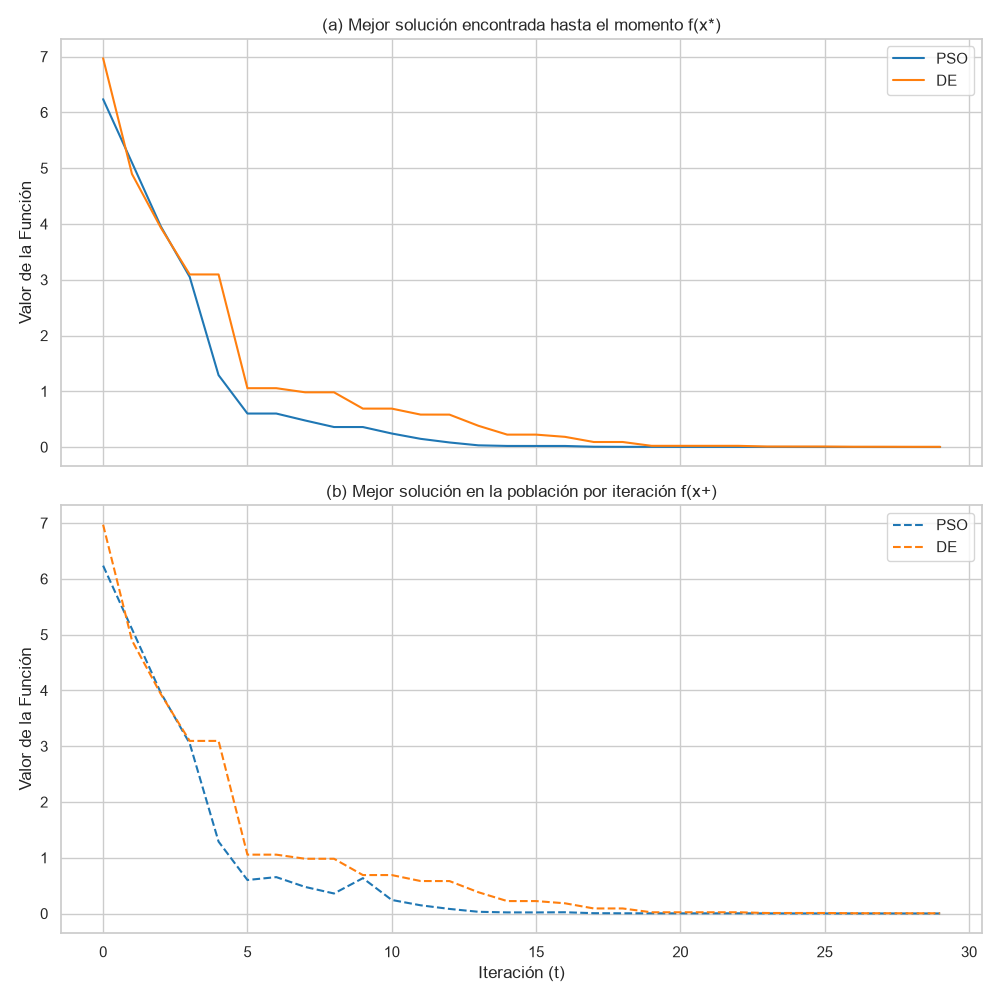
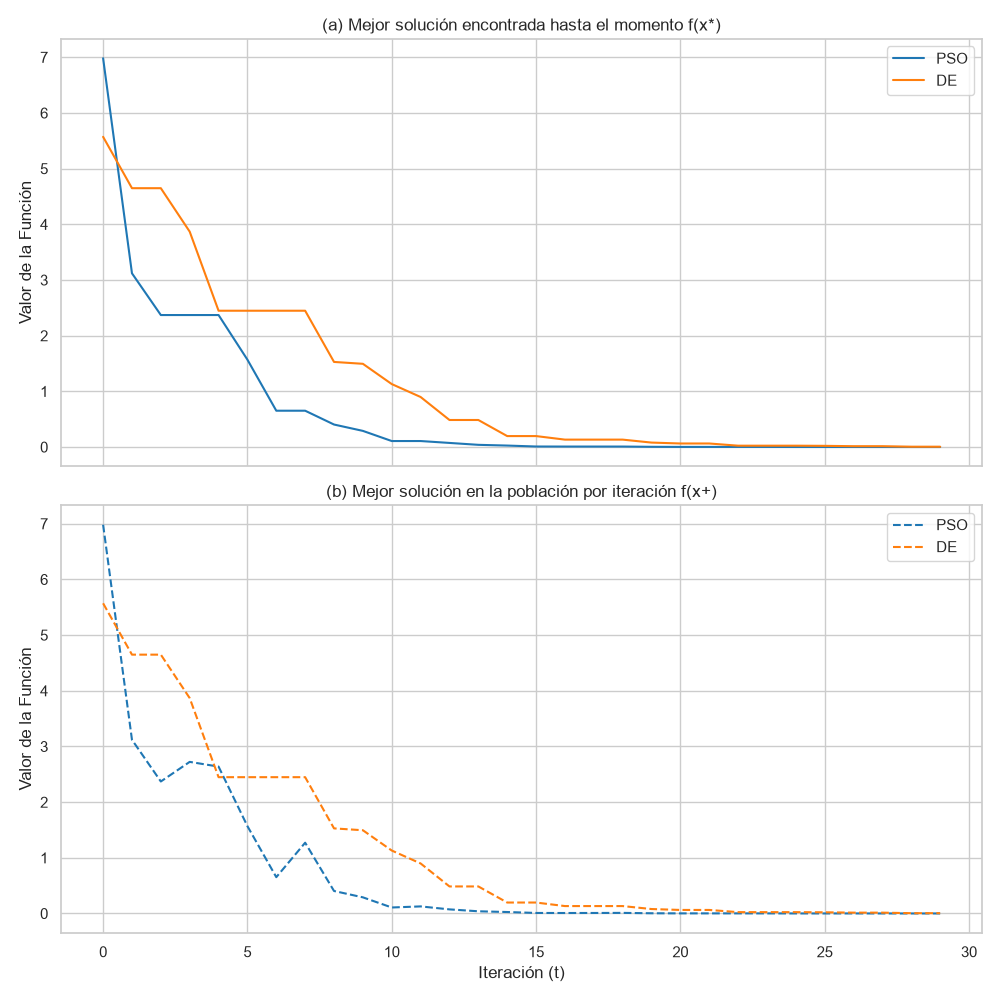
feat: generate both boxplot_graphics, separated and grouped by dimensions.

diff --git a/utils/plotter.py b/utils/plotter.py
@@ -23,14 +23,12 @@ class Plotter:
         """Genera las gráficas separadas: (a) histórico y (b) iteración."""
         fig, (ax1, ax2) = plt.subplots(2, 1, figsize=(10, 10), sharex=True)
         
-        # Gráfica (a): Mejor solución histórica f(x*)
         ax1.plot(pso_data["history"]["best_historical_fitness"], label="PSO", color="#1f77b4", linestyle="-")
         ax1.plot(de_data["history"]["best_historical_fitness"], label="DE", color="#ff7f0e", linestyle="-")
         ax1.set_title("(a) Mejor solución encontrada hasta el momento f(x*)")
         ax1.set_ylabel("Valor de la Función")
         ax1.legend()
         
-        # Gráfica (b): Mejor solución en la población por iteración f(x+)
         ax2.plot(pso_data["history"]["best_iter_fitness"], label="PSO", color="#1f77b4", linestyle="--")
         ax2.plot(de_data["history"]["best_iter_fitness"], label="DE", color="#ff7f0e", linestyle="--")
         ax2.set_title("(b) Mejor solución en la población por iteración f(x+)")
@@ -56,12 +54,11 @@ class Plotter:
         plt.savefig(os.path.join(self.plots_dir, "grafica_d_radio_poblacional.png"))
         plt.close()
 
-    def plot_boxplots(self, data: dict, algo_name: str):
-        """Genera la gráfica (c) de caja y bigotes agrupando 3 dimensiones por iteración."""
+    def plot_boxplots_grouped(self, data: dict, algo_name: str):
+        """Genera la gráfica (c) agrupando 3 dimensiones por iteración en el mismo eje X."""
         positions = np.array(data["history"]["population_positions"])
         iters, pop_size, dims = positions.shape
         
-        # Aplanar los datos para Seaborn
         records = []
         for t in range(iters):
             for d in range(dims):
@@ -76,21 +73,34 @@ class Plotter:
         
         plt.figure(figsize=(16, 6))
         sns.boxplot(
-            data=df, 
-            x="Iteración", 
-            y="Valor", 
-            hue="Dimensión", 
-            fliersize=2, 
-            linewidth=0.8,
-            palette="Set2"
+            data=df, x="Iteración", y="Valor", hue="Dimensión", 
+            fliersize=2, linewidth=0.8, palette="Set2"
         )
         
-        plt.title(f"(c) Dispersión de la Población - {algo_name}")
+        plt.title(f"(c) Dispersión Poblacional Agrupada - {algo_name}")
         plt.xlabel("Iteración (t)")
         plt.ylabel("Valor en el dominio [-10, 10]")
         plt.legend(title="Dimensiones")
         plt.tight_layout()
-        plt.savefig(os.path.join(self.plots_dir, f"grafica_c_cajas_{algo_name}.png"))
+        plt.savefig(os.path.join(self.plots_dir, f"grafica_c_cajas_agrupadas_{algo_name}.png"))
+        plt.close()
+
+    def plot_boxplots_separated(self, data: dict, algo_name: str):
+        """Genera la gráfica (c) apilando verticalmente cada dimensión en subgráficas independientes."""
+        positions = np.array(data["history"]["population_positions"])
+        iters, pop, dims = positions.shape
+        
+        fig, axes = plt.subplots(dims, 1, figsize=(12, 8), sharex=True)
+        fig.suptitle(f"(c) Dispersión Poblacional por Dimensión - {algo_name}")
+        
+        for d in range(dims):
+            dim_data = [positions[i, :, d] for i in range(iters)]
+            sns.boxplot(data=dim_data, ax=axes[d], fliersize=3, palette="Set2")
+            axes[d].set_ylabel(f"Dim {d+1}")
+            
+        axes[-1].set_xlabel("Iteración (t)")
+        plt.tight_layout()
+        plt.savefig(os.path.join(self.plots_dir, f"grafica_c_cajas_separadas_{algo_name}.png"))
         plt.close()
 
     def generate_all(self):
@@ -99,5 +109,9 @@ class Plotter:
         
         self.plot_convergence(de_data, pso_data)
         self.plot_population_radius(de_data, pso_data)
-        self.plot_boxplots(de_data, "DE")
-        self.plot_boxplots(pso_data, "PSO")
+        
+        self.plot_boxplots_grouped(de_data, "DE")
+        self.plot_boxplots_grouped(pso_data, "PSO")
+        
+        self.plot_boxplots_separated(de_data, "DE")
+        self.plot_boxplots_separated(pso_data, "PSO")
